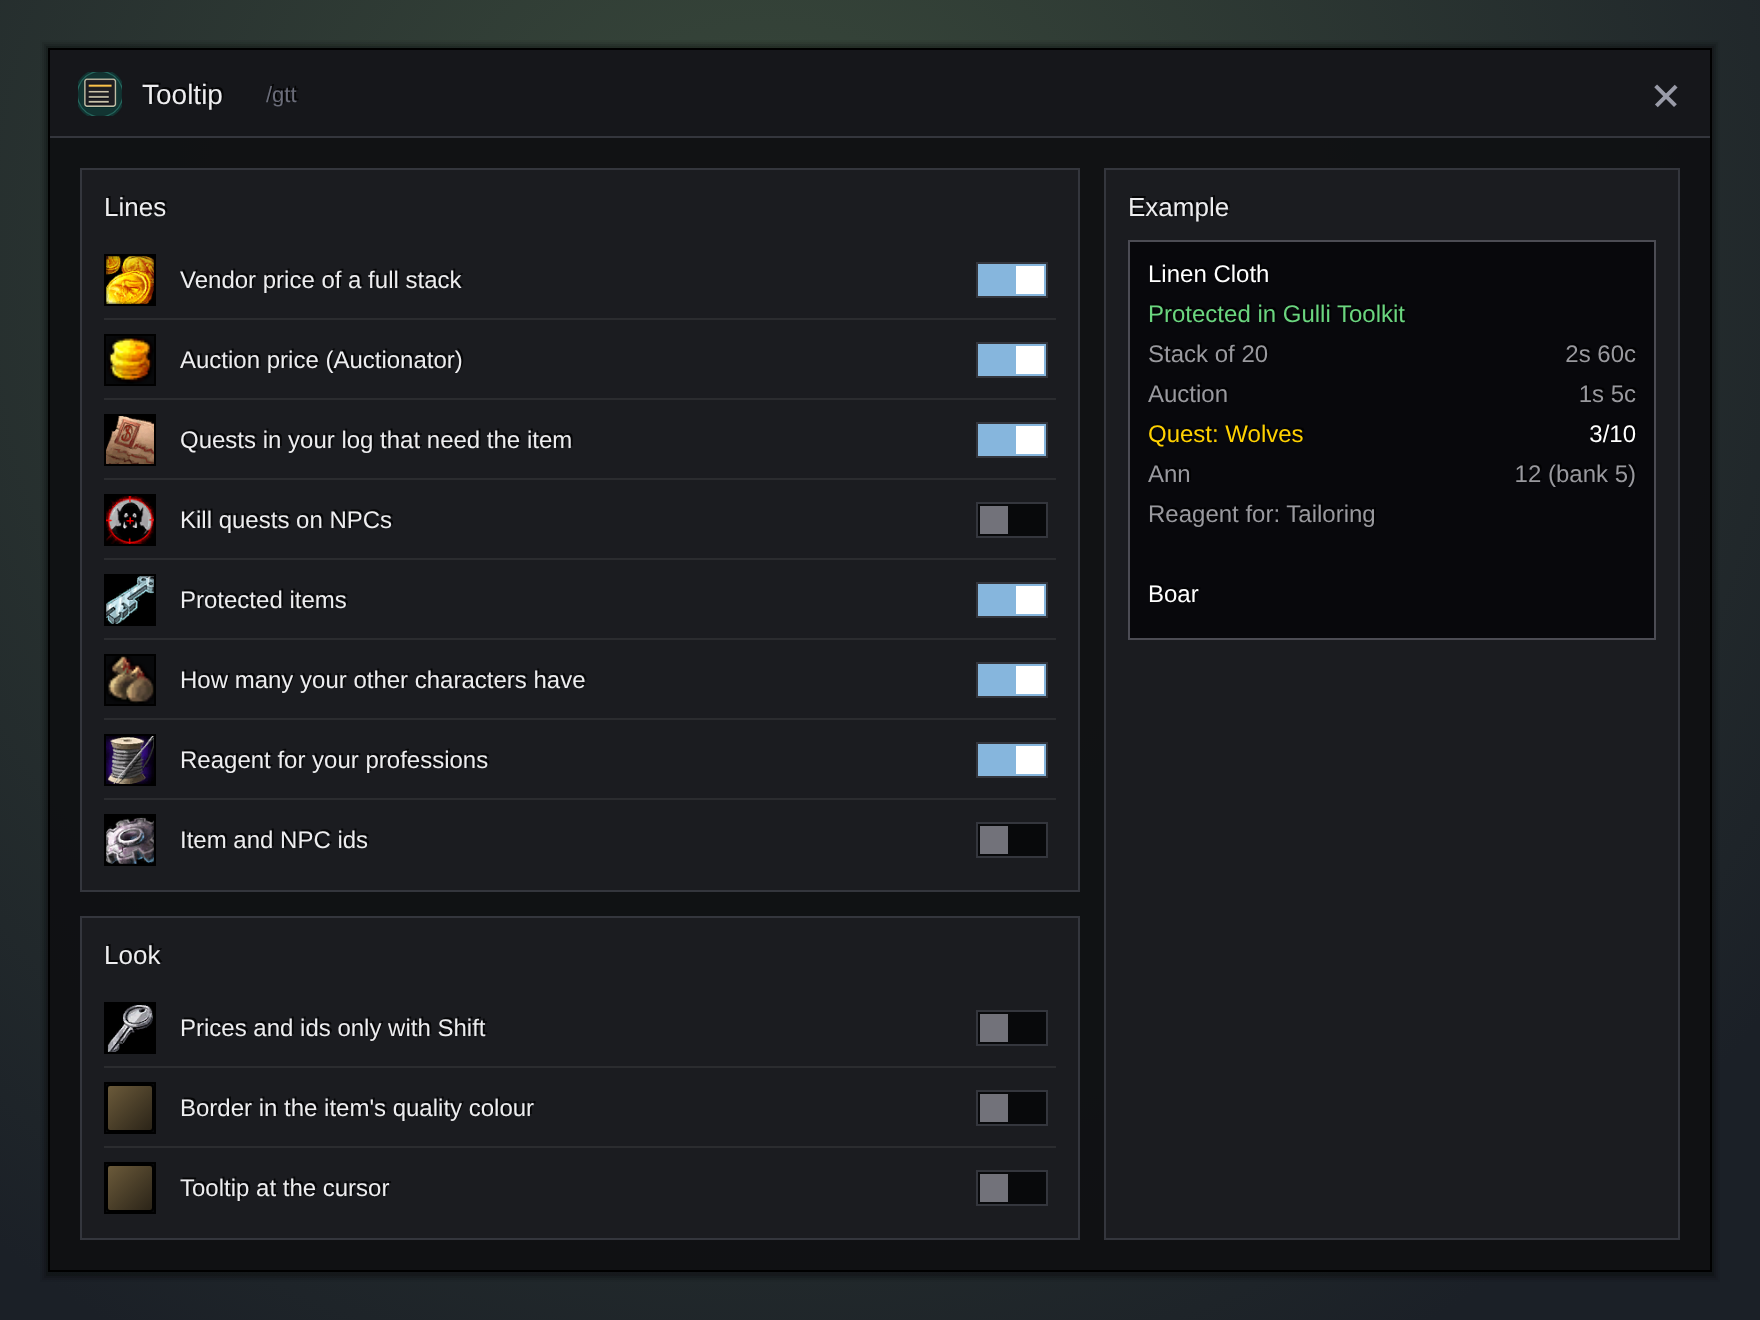
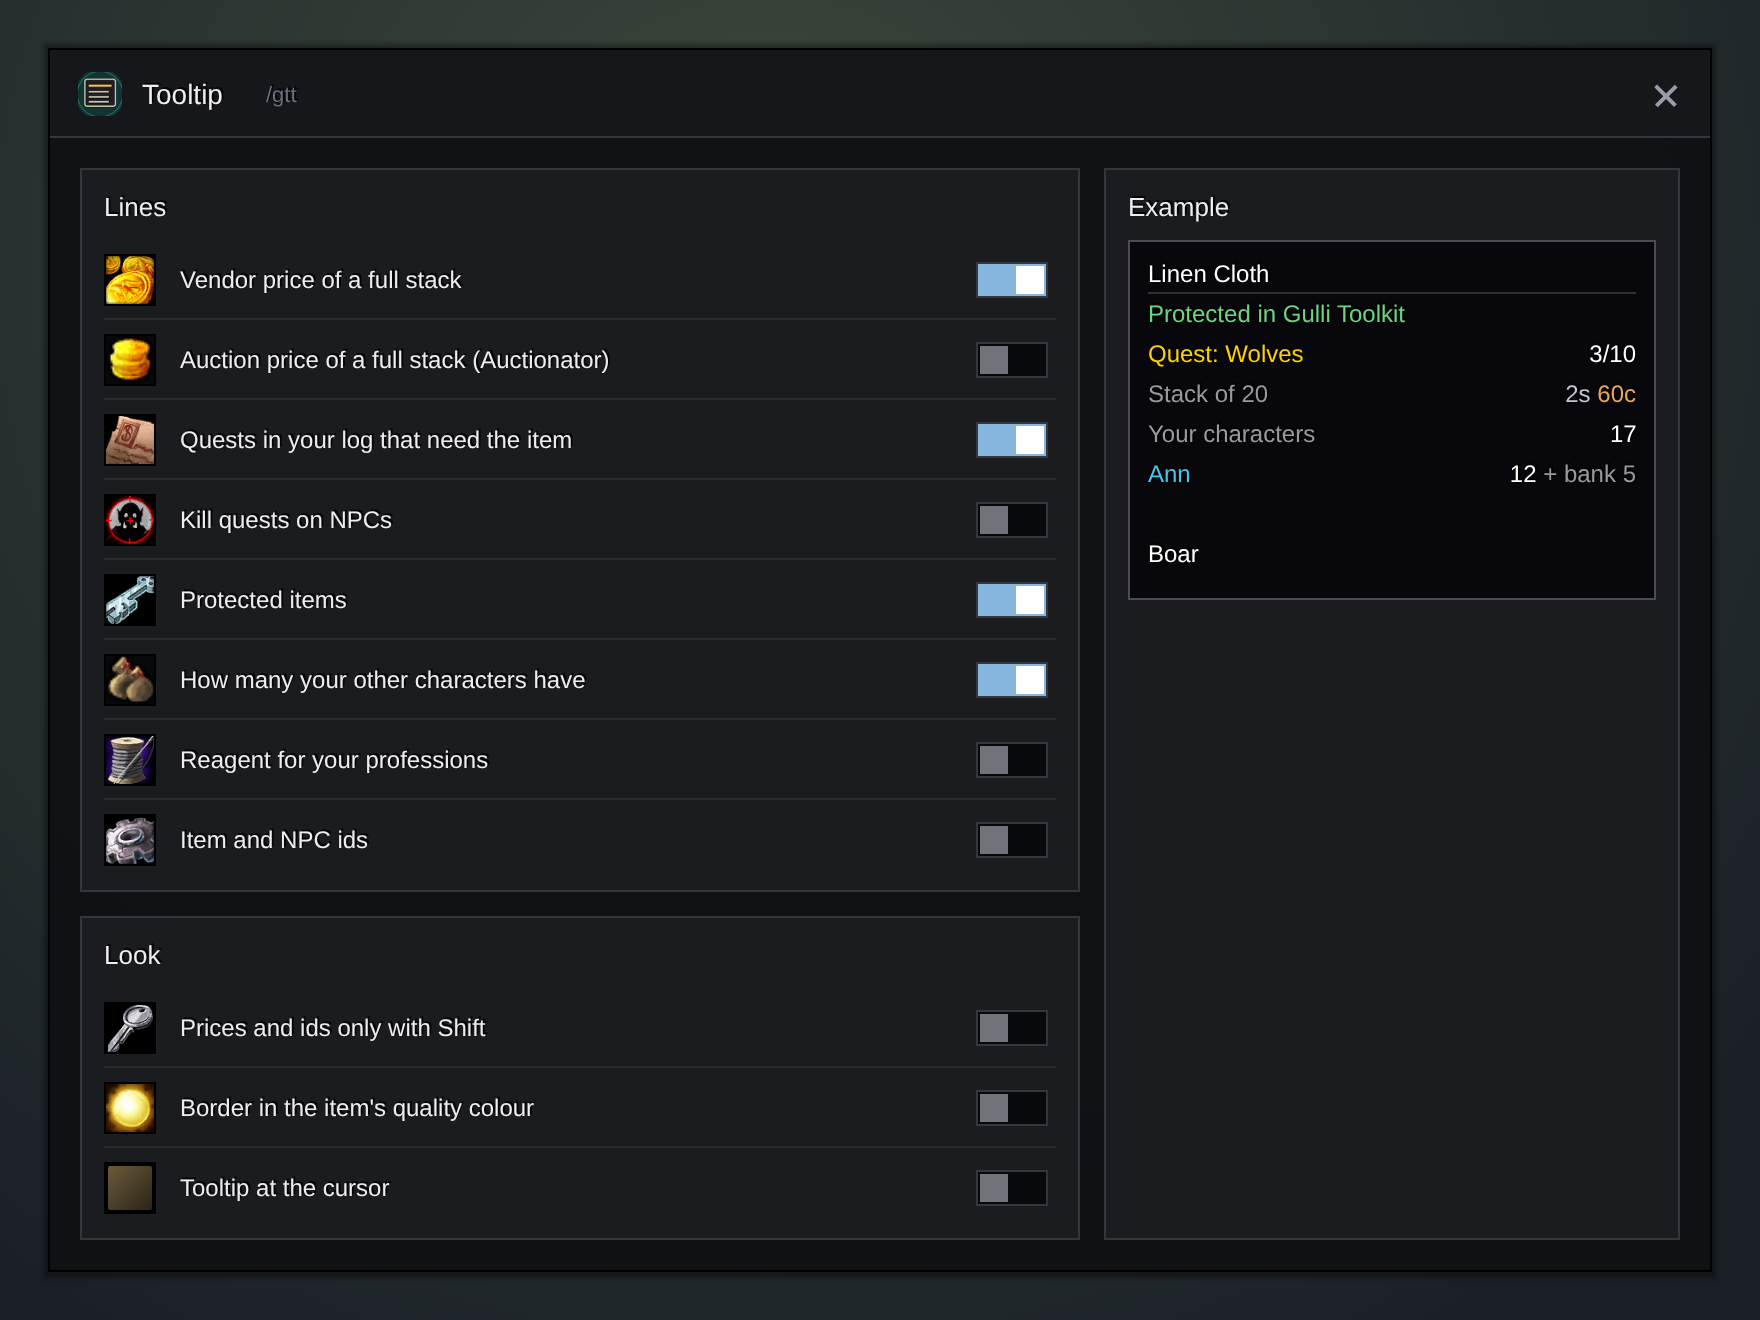
Tooltip: grouped, coloured lines under a divider; auction and reagent start off
Claude-Session: https://claude.ai/code/session_01HDZ3Vb1nZcCEX5HLE6228m

diff --git a/AGENTS.md b/AGENTS.md
@@ -82,7 +82,7 @@ Each one loads `Locales.lua`, `Core.lua`, `Skin.lua`, `UI.lua` (DungeonPrep adds
 - **Gulli-Merchant** (`/gmc`, `/gmc sell`, `/gmc junk <link|id>`; `GulliMerchantDB`: `sell`, `repair`, `guild`, `safe`, `unusable`, `junk`, `manual` (items sold by hand), `dismissed`; defaults in `ns.DEFAULTS`). At `MERCHANT_SHOW` (`ns.Visit`) it repairs when the money is there, sells the junk (`ns.SellJunk`: tier 1 of the junk rules and, with `unusable`, bound gear the class cannot use; 12 per step, only 12 with `safe`), repairs after the sale when it was short (`ns.Repair`: guild money when allowed and within the limit), and prints one line. Shift skips it once; a **Sell junk** button on the vendor's window sells by hand. The window previews the sale (untick = keep this session, `ns.skip`), the "always sell" list and the suggestions (`ns.Suggestions`: items sold by hand `LEARN` times; only a suggestion).
 - **Gulli-Mail** (`/gml`, `GulliMailDB`: `recent` and `alts` per realm, `panel`, the Take all switches `money`, `sold`, `bought`, `expired`, `player` (`ns.KINDS`, a letter's kind from `ns.Kind`), `keepFree`, `keepGold`, `rules`, `log`, `chars` (when each character's letters run out); defaults in `ns.DEFAULTS`). `ns.Next` finds the next take (money first, then attachments, never cash on delivery or GM letters); `ns.TakeAll([letters])` takes one thing per step, the next step on `MAIL_INBOX_UPDATE` or after `TIMEOUT`, skips a take the game refuses `TRIES` times, asks the server for letters past the 50 shown (`CheckInbox`), and with `letters` takes only those, one letter at a time from the last. `ns.Return` sends a player's letter back. `ns.Snapshot`/`ns.OthersExpiring` warn about letters that run out on every character. Sending never presses Send: `ns.AttachKind` (`ns.ATTACH_KINDS`, a right-click per item), `ns.FillGold`, `ns.ApplyRule`. `ns.Names` gives the player's own characters, recent recipients (a hook on `SendMail`), friends and guild. A new Take all switch gets a kind in `ns.KINDS`, an icon in `ns.OPT_ICON`, its texts and a test; a new quick-attach kind an entry in `ns.ATTACH_KINDS` with `KIND_<KEY>` texts.
 - **Gulli-AutoQuest** (`/gaq`, `/gaq ignore|pause`; `GulliAutoQuestDB`: the settings in `ns.DEFAULTS` (`accept`, `turnIn`, `skipTrivial`, `shared`, `itemQuests`, `skipElite`, `skipDungeon`, `skipGroup`, `minFree`, `pickBest`, `gossip`, `chat`, `paused`, `pauseUntil`, `pauseKey`), `ignoreNpc` and `ignoreQuest` (id -> name), `session` (counters, reset on a new login, kept over `/reload`)). `ns.Choose` picks a finished quest first, then a new one that `ns.SkipNew` lets through. It never picks among several rewards unless `pickBest` is on, never hands in a quest that asks for gold, and hands in a quest that takes non-quest items (`ns.TakesItems`) only with `itemQuests`. `ns.Paused` is the pause key, the switch or the 5-minute timer. A new rule gets a switch in `ns.DEFAULTS`, a row in the Rules tab and a test.
-- **Gulli-Tooltip** (`/gtt`, `GulliTooltipDB`: one switch per key of `ns.LINES` (`price`, `auction`, `quest`, `mobs`, `protect`, `alts`, `reagent`, `id`) and `ns.LOOK` (`shift`, `quality`, `cursor`); defaults in `ns.DEFAULTS`, each change through `ns.Set`). Lines come from `ns.ItemLines`, `ns.UnitLines` and `ns.SpellLines`, added through `TooltipDataProcessor` (the old `OnTooltipSetItem` hook as fallback). Quest lines read the objectives of the quest log (`ns.QuestNeeds` for items by the whole name, `ns.MobNeeds` for kills; rebuilt on `QUEST_LOG_UPDATE`). Other addons are only read, never required: Auctionator's `API.v1`, `GulliChoresDB.chars[*].items`/`bank` (`ns.AltCounts`), `GulliCraftProfitCharDB` learned recipes (`ns.ReagentFor`), `GulliToolkit.IsProtected`. The window shows an example tooltip of the lines that are on. A new line gets a key in `ns.LINES`, a default, `OPT_`/`TIP_` texts, an icon in `ns.OPT_ICON`, a line in the example and a test.
+- **Gulli-Tooltip** (`/gtt`, `GulliTooltipDB`: one switch per key of `ns.LINES` (`price`, `auction`, `quest`, `mobs`, `protect`, `alts`, `reagent`, `id`) and `ns.LOOK` (`shift`, `quality`, `cursor`); defaults in `ns.DEFAULTS`, each change through `ns.Set`). Lines come from `ns.ItemLines`, `ns.UnitLines` and `ns.SpellLines`, added through `TooltipDataProcessor` (the old `OnTooltipSetItem` hook as fallback). Quest lines read the objectives of the quest log (`ns.QuestNeeds` for items by the whole name, `ns.MobNeeds` for kills; rebuilt on `QUEST_LOG_UPDATE`). Other addons are only read, never required: Auctionator's `API.v1`, `GulliChoresDB.chars[*].items`/`bank` (`ns.AltCounts`), `GulliCraftProfitCharDB` learned recipes (`ns.ReagentFor`), `GulliToolkit.IsProtected`. The window shows an example tooltip of the lines that are on. Our lines come in groups (protected, quests, prices, characters, professions, ids) under a thin line drawn above the first one (kept in a weak table, never a field on the game's tooltip); money is `S.MoneyText`, characters in their class colour under a total (`ns.AltLines`). The auction line gives a full stack, since Auctionator shows the price of one; it and the reagent line start off. A changed default for players with saved settings raises `ns.DEFAULTS_V` with a step in `ns.Migrate`. A new line gets a key in `ns.LINES`, a default, `OPT_`/`TIP_` texts, an icon in `ns.OPT_ICON`, a line in the example and a test.
 - **Gulli-XP** (`/gxp`, `GulliXPDB`: `bar`, `locked`, `alpha` and `scale` in percent, `text` (one of `ns.TEXTS`), `wide`, `rep`, `point`; defaults in `ns.DEFAULTS`, each change through `ns.SetPref`, which restyles the bar; `GulliXPCharDB`: `s` the session, `cur` the level now, `levels` the last `ns.LEVELS_KEPT` levels). The bar's bottom line is `ns.BarParts` (level done, rested, and the XP of finished quests from `ns.ReadyXP`, cached until `QUEST_LOG_UPDATE`). `ns.Update` counts XP gains (a level up adds the rest of the old level); a gap without XP counts as play only up to `ns.IDLE` (`ns.Active`, `ns.Rate` over the last hour of play). The session survives a `/reload` (`ns.Resume`); a real login (`PLAYER_ENTERING_WORLD` isInitialLogin) or a break over two `ns.IDLE` starts a new one. `ns.LevelUp` puts the old level into the history and notifies the hub. At the top level the bar shows the watched reputation (`rep`). A new bar text gets a key in `ns.TEXTS` and a `TEXT_<KEY>` text in every language.
 - **Gulli-Loot** (`/glt`, `/glt need|greed|pass|ask <link>`, `/glt test <link>`, `/glt on|off`; `GulliLootDB`: `quality` 0-2 -> ask/greed/pass, `types` item class id -> greed/pass, `items` id -> ask/need/greed/pass, `log` (the last `ns.LOG_MAX` rolls, newest first, with `reason` and `winner`), `on`, `report`, `where`, `greedUnusable`, `needUpgrade`, `fastLoot`, `soloConfirm`; defaults in `ns.DEFAULTS`). `ns.Decide` returns the rule and its reason: an item rule first (Ask stops there), then a type rule (`ns.TYPES`), then the quality rule; type and quality rules never touch bind-on-pickup or protected items and follow `where`. A new reason gets a `WHY_` text in every language; a new item type an entry in `ns.TYPES` with a `TYPE_` text and a test. Only rolls it made are confirmed (`ns.OnConfirm`). Shift at the start of a roll leaves it alone. Winners come from the loot chat (`ns.OnLootMessage`, patterns from `LOOT_ROLL_WON`/`LOOT_ROLL_YOU_WON`).
 - **Gulli-Social** (`/gso`, `GulliSocialDB`: the switches in `ns.DEFAULTS` (`invite`, `words`, `match`, `inviteKnown`, `acceptKnown`, `bnet`, `reply`, `toRaid`, `blockStrangers`, `noDuels`, `duelKnown`, `noGuildInvites`, `noTrade`, `noPetition`, `summon`, `res`, `spam`, `allow`, `deny`), `log` (the last `ns.LOG_MAX`), `stats` (today's count)). `ns.Known` checks the deny list (never known), the allow list, friends, Battle.net friends and guild by name without the realm. Turning things away and acting for the player (summon, resurrect, raid) are off by default. Everything turned away goes through one path: chat, `ns.Log`, `ns.Count` and `Notify`. A new rule gets a switch in `ns.DEFAULTS`, an icon in `ns.OPT_ICON`, a `LOG_<WHAT>` and `N_<WHAT>` text and a test. Auto-replies while busy live in QuickChat, not here.

diff --git a/docs/tooltip/README.md b/docs/tooltip/README.md
@@ -18,13 +18,14 @@ Is this worth keeping? Which quest wanted it? Gulli Tooltip puts the answer in t
 
 ## Features
 
+- **Easy to read.** A thin line sets the Gulli lines apart from the game's and other addons' lines. Quests are yellow, money shows in gold, silver and copper colours, your characters in their class colours.
 - **Stack price.** What a full stack sells for at a vendor.
-- **Auction price** from Auctionator, when you have it.
+- **Auction price of a full stack** from Auctionator, when you have it. Off by default, because Auctionator already shows the price of one.
 - **Quests that need it.** "Quest: Wolves 3/10" on a Wolf Pelt, from the quests in your log. The count turns green when your bags hold enough. Only the whole name counts: a Large Wolf Pelt is not a Wolf Pelt.
 - **Kill quests on NPCs** ("Quest: Kill boars 1/5" on a boar). Off by default, because the game may show this already.
 - **Protected** on items you protected in the Gulli Toolkit.
-- **Your other characters:** how many each one holds in the bags and the bank, from Gulli Chores.
-- **Reagent for** your professions, from Gulli Craft Profit.
+- **Your other characters:** how many you have in all, then each character with its bags and bank, from Gulli Chores.
+- **Reagent for** your professions, from Gulli Craft Profit. Off by default, because the game already says "Crafting Reagent".
 - **Ids** of items, NPCs and spells, for guides and bug reports. Off by default.
 - **Look:** prices and ids only while you hold **Shift**, the border in the item's quality colour, the tooltip at the cursor.
 - The window shows an **example tooltip** with only the lines you switched on.
